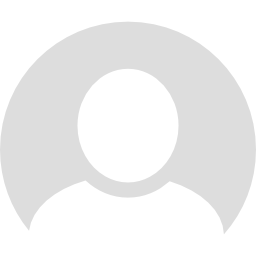
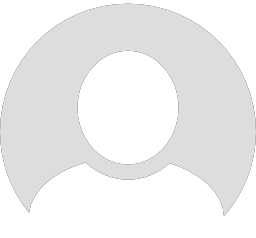
Ajuste de las dimensiones de la aplicación: - Recorte de la imagen Login_usuario. - Modificación de los estilos css de las vistas y de la aplicación   para alinear el contenido y que sea responsive. - Cambio de la id app a clase en las vistas.

diff --git a/labRecApp/frontend/src/styles/home_style.css b/labRecApp/frontend/src/styles/home_style.css
@@ -1,30 +1,38 @@
-* {
-    font-family: 'Segoe UI', Tahoma;
-    font-size: medium;
-}
-
-body {
-    background-color: #333;
-    color: #fff;
-}
-
-.home_Component {
-    font-family: Avenir, Helvetica, Arial, sans-serif;
-    -webkit-font-smoothing: antialiased;
-    -moz-osx-font-smoothing: grayscale;
-    text-align: center;
-    position: relative;
+.app {
+    display: flex;
+    flex-direction: column;
+    justify-content: center;
+    min-height: 100vh;
 }
 
 .carousel_img{
-    width: 670px;
+    max-width: 100%;
     height: auto;
+    width: device-width;
+    align-items: center;
 }
 
 .carousel {
-    width: 800px;
+    margin: 0 auto;
+    max-width: 800px;
+    width: device-width;
+}
+
+.home_Component button {
+    cursor: pointer !important;
+    background-color: #c9c9c9 !important;
+    color: #565d6a;
+    border: none !important;
+    padding: 0 !important;
+    border-radius: 4px !important;
 }
 
 .p-carousel-indicators .p-link[tabindex="0"]{
-    background-color: #b28d53;
+    background-color: #b28d53 !important;
+}
+
+.home_Component {
+    display: flex;
+    flex-direction: column;
+    align-items: center;
 }

diff --git a/labRecApp/frontend/src/styles/app_style.css b/labRecApp/frontend/src/styles/app_style.css
@@ -1,19 +1,36 @@
-main {
-    display: flex;
-    flex-direction: column;
-    min-height: 77vh;
-    align-items: center;
-    justify-content: center;
+* {
+    font-family: 'Segoe UI', Tahoma;
+    font-size: medium;
+    box-sizing: border-box;
+}
+
+html, body {
+    margin: 0;
+    padding: 0;
+    background-color: #333;
+}
+
+#app {
+    min-height: 100vh;
+    min-width: 100vh;
+}
+
+header {
+    top: 0;
+    position: fixed;
+    width: 100%;
+    padding: 10px;
 }
 
 footer {
+    bottom: 0;
+    position: fixed;
+    width: 100%;
     padding: 10px;
-    text-align: center;
-    margin-top: auto;
 }
 
 @media screen and (max-height: 600px) {
-    footer {
+    footer, header {
         position: static;
     }
 }

diff --git a/labRecApp/frontend/src/styles/login_style.css b/labRecApp/frontend/src/styles/login_style.css
@@ -1,12 +1,8 @@
-body {
-    background-color: #333;
-    color: #fff;
-}
-
-.login_Component {
-    -webkit-font-smoothing: antialiased;
-    -moz-osx-font-smoothing: grayscale;
-    text-align: center;
+.app {
+    display: flex;
+    flex-direction: column;
+    justify-content: center;
+    min-height: 100vh;
 }
 
 .login_Component input[type="text"],
@@ -41,4 +37,10 @@ body {
 .login_Component button:hover {
     background-color: #dfb26b;
     /* Cambia el color de fondo al pasar el ratón */
+}
+
+.login_Component {
+    display: flex;
+    flex-direction: column;
+    align-items: center;
 }

diff --git a/labRecApp/frontend/src/views/home.vue b/labRecApp/frontend/src/views/home.vue
@@ -1,5 +1,5 @@
 <template>
-  <div id="app">
+  <div class="app">
     <header>
       <navbarComponent></navbarComponent>
     </header>
@@ -27,7 +27,6 @@ import calendario from '@/assets/Calendario.png';
 import manual from '@/assets/Manual.png';
 import navbarComponent from "../components/navbar.vue";
 import footerComponent from "../components/footer.vue";
-import '../styles/app_style.css';
 
   export default {
     name: 'homeComponent',

diff --git a/labRecApp/frontend/src/views/login.vue b/labRecApp/frontend/src/views/login.vue
@@ -1,5 +1,5 @@
 <template class="login_component_template">
-  <div id="app">
+  <div class="app">
     <header>
       <navbarComponent></navbarComponent>
     </header>
